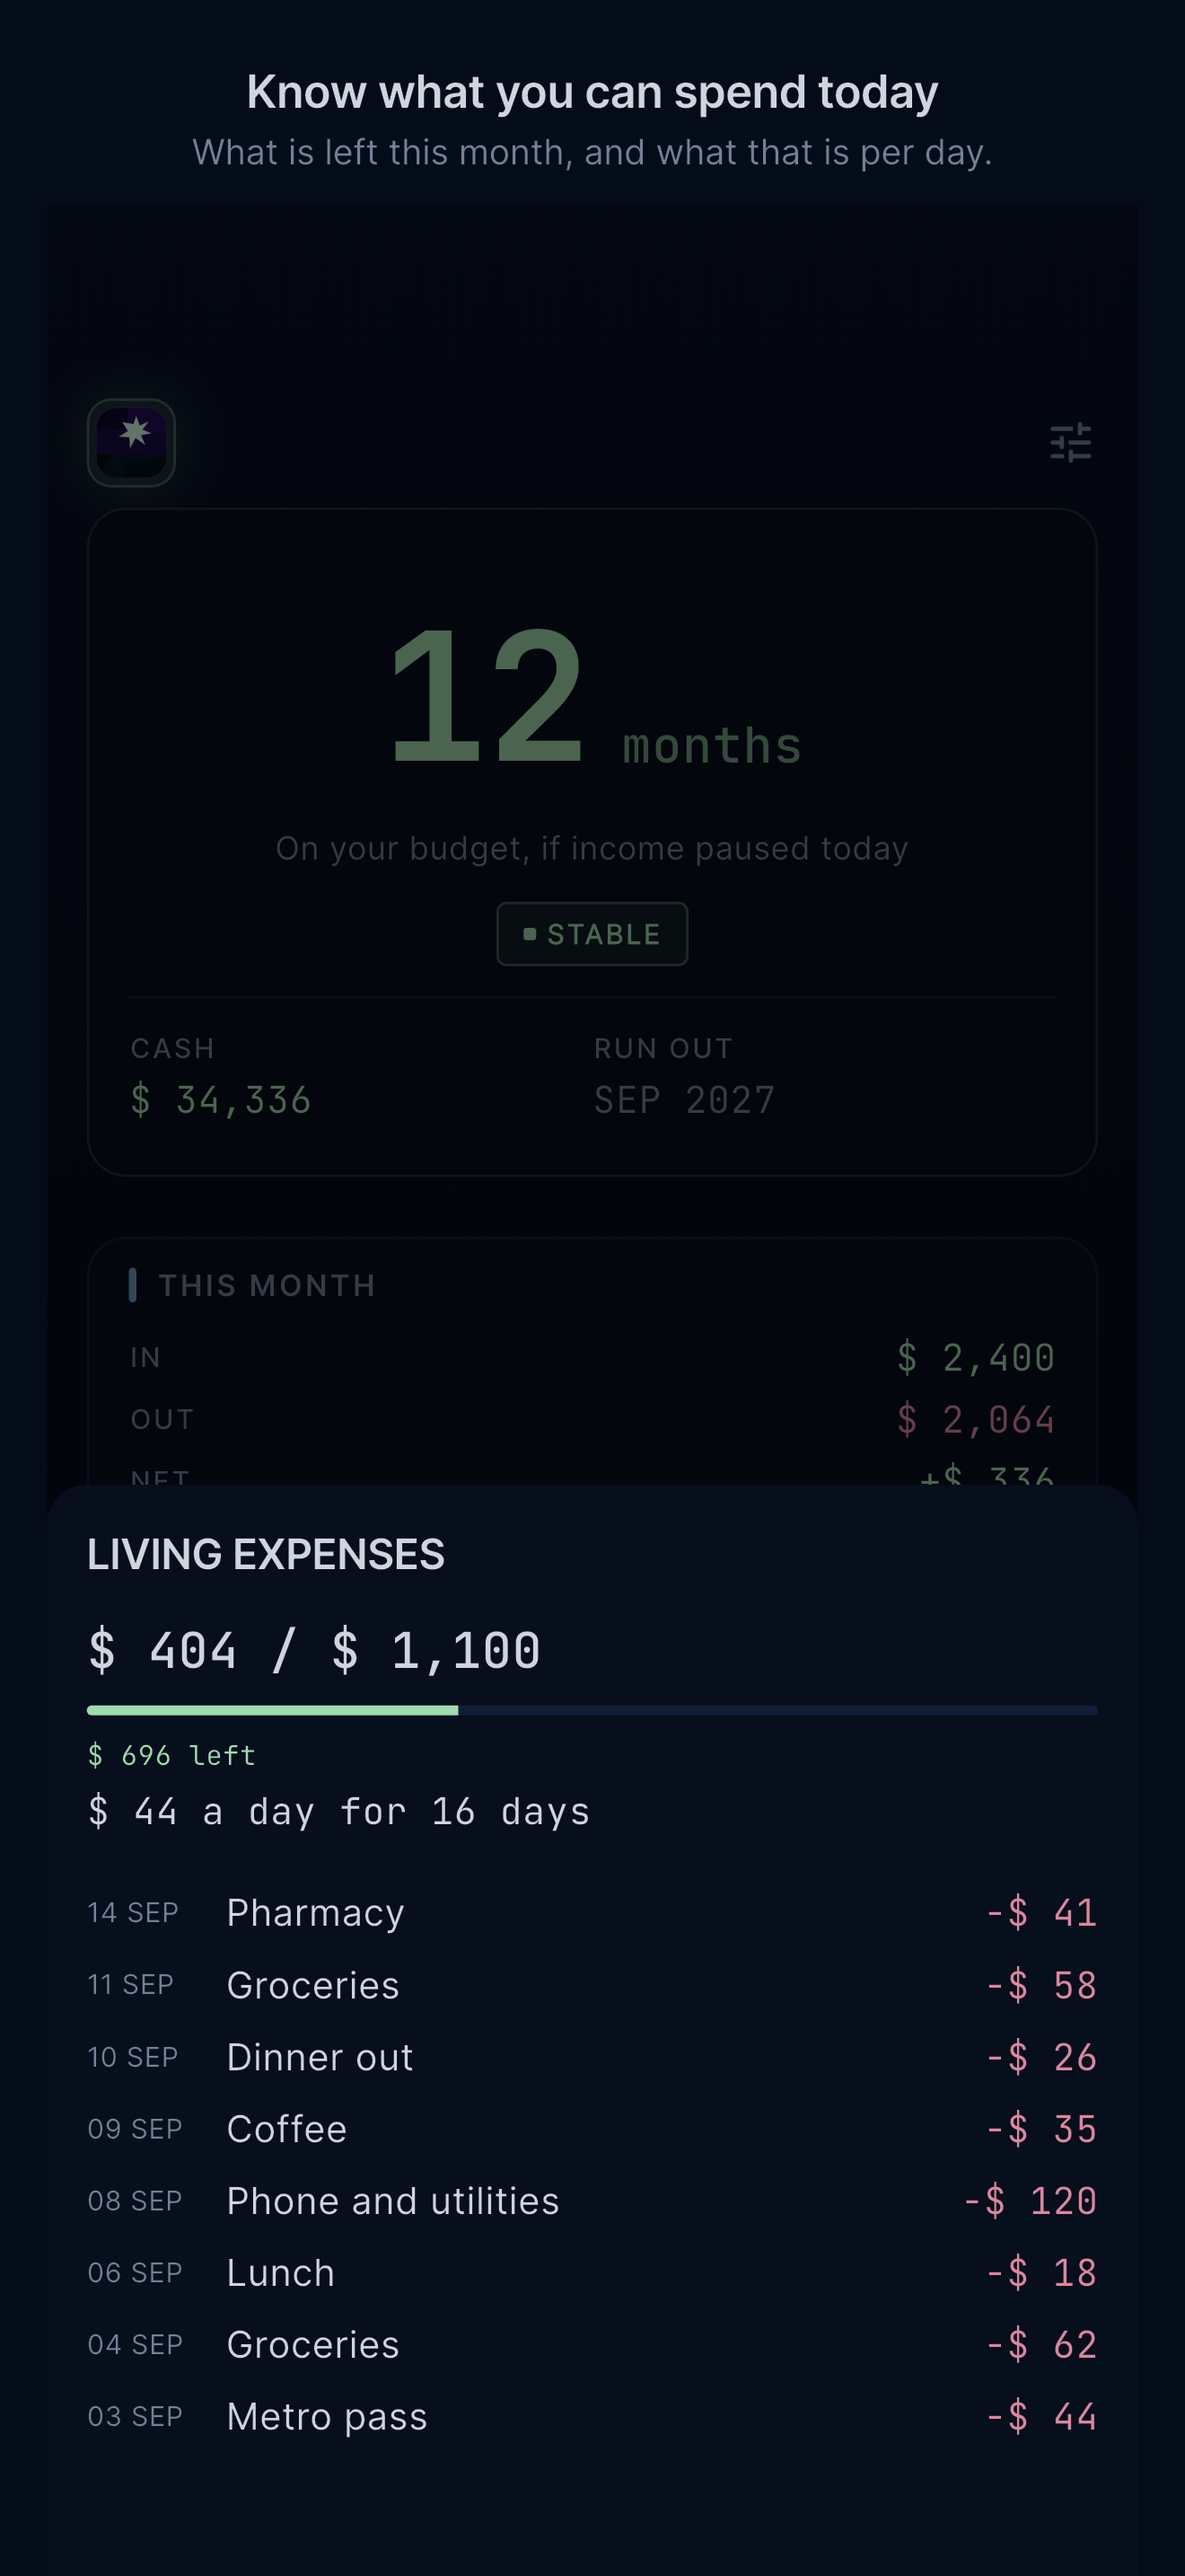
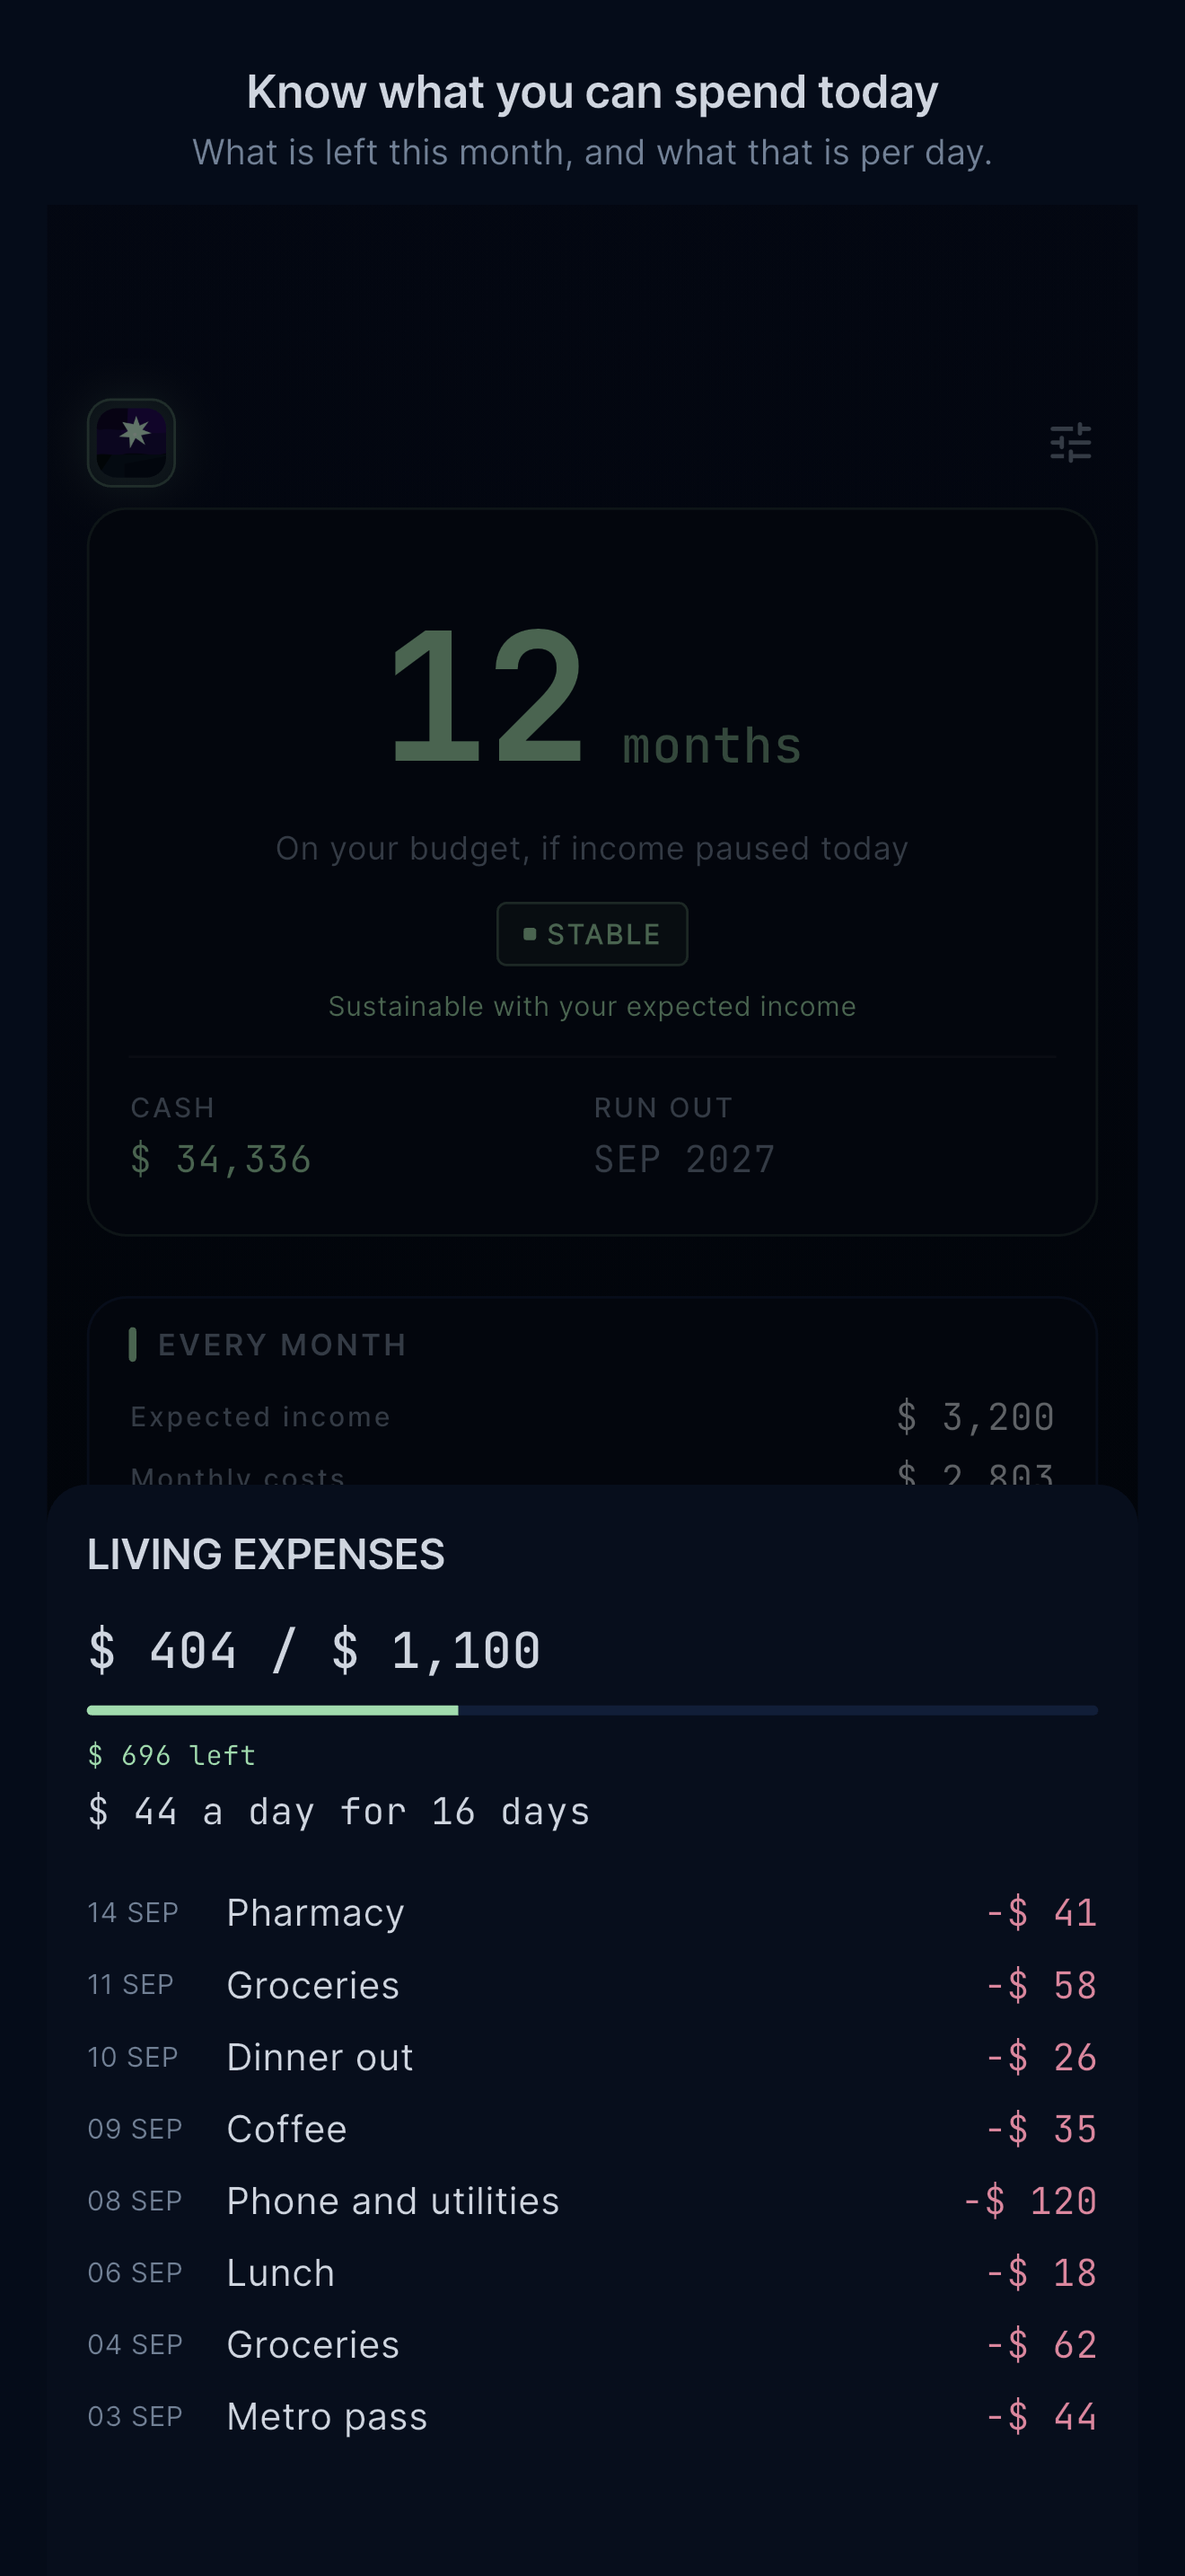
feat(growth): the dashboard shows what a month adds or spends (#193)
Closes #64.

The product is money management and growing income, and the income side had no
surface. The figure existed all along — expected income minus monthly costs,
computed on the model — but it showed only as one caption under the status
badge, and only once the forecast sheet had been filled in. So the app said a
great deal about money leaving and nothing about money arriving.

A card between the goal and this month, because that is where the pair reads:
what you expect every month, then what actually happened in this one. Expected
income, monthly costs, and what the month leaves. Green when it leaves
something, the cost colour when it does not, and the word is Surplus or
Deficit with no adjective either side of it.

With no expected income set it says one thing, which is the way to set it, and
opens the same sheet the settings screen uses. An empty card that explains
what it would show if you filled it in is worse than a card that asks.

It does not touch the runway. The runway is deliberately what the cash covers
if income stopped today, per CONTRACTS.md §3.2, and a test asserts that adding
expected income leaves the months unchanged. This card answers the other
question: on current expectations, does the month add to that or spend it.

The demo seed now carries an expected income, so the store frames show the
growth half rather than an empty state asking for it. Recaptured, and all four
frames matched across two runs this time.
[…]

diff --git a/packages/presentation/lib/features/dashboard/widgets/every_month_card.dart b/packages/presentation/lib/features/dashboard/widgets/every_month_card.dart
@@ -1,0 +1,133 @@
+import 'package:application/application.dart';
+import 'package:design_system/design_system.dart';
+import 'package:domain/domain.dart';
+import 'package:flutter/material.dart';
+import 'package:flutter_riverpod/flutter_riverpod.dart';
+import 'package:intl/intl.dart';
+
+/// Expected income against monthly costs, and what the month leaves behind.
+///
+/// This is the growth half of the product, and until now it had no surface.
+/// The figure existed — the model has computed it all along — but it showed
+/// only as one caption under the status badge, and only once the forecast
+/// sheet had been filled in. So the app said plenty about what money leaves
+/// and nothing about what comes in.
+///
+/// It does not touch the runway. The runway is deliberately what the cash
+/// covers if income stopped today (CONTRACTS.md §3.2); this says whether, on
+/// current expectations, the month adds to that or spends it.
+class EveryMonthCard extends ConsumerWidget {
+  const EveryMonthCard({super.key, required this.model, required this.onSetUp});
+
+  final ModelState model;
+
+  /// Opens the place the figure is edited. There is one way in, and it is the
+  /// same one the settings sheet uses.
+  final VoidCallback onSetUp;
+
+  @override
+  Widget build(BuildContext context, WidgetRef ref) {
+    final l10n = context.l10n;
+    final symbol = ref.watch(currencyProvider).value?.symbol ?? '¥';
+    final nf = NumberFormat('#,##0', 'en_US');
+    String money(double v) => '$symbol ${nf.format(v.abs())}';
+
+    // Nothing to say about an income nobody has told us about, beyond the one
+    // way to say it.
+    if (!model.hasSustainableProjection) {
+      return NeoExpandableCard(
+        title: l10n.everyMonth,
+        accentColor: SC.accentNeutral,
+        summary: GestureDetector(
+          onTap: onSetUp,
+          behavior: HitTestBehavior.opaque,
+          child: Row(
+            mainAxisAlignment: MainAxisAlignment.spaceBetween,
+            children: [
+              Flexible(
+                child: Text(
+                  l10n.setExpectedIncome,
+                  style: AppTextStyles.body.copyWith(color: SC.numberPrimary),
+                  maxLines: 1,
+                  overflow: TextOverflow.ellipsis,
+                ),
+              ),
+              const SizedBox(width: AppSpacing.sm),
+              const Icon(
+                Icons.chevron_right_rounded,
+                size: 18,
+                color: SC.captionColor,
+              ),
+            ],
+          ),
+        ),
+      );
+    }
+
+    final net = model.sustainableNetMonthlyFlow;
+    final inSurplus = net >= 0;
+
+    return NeoExpandableCard(
+      title: l10n.everyMonth,
+      accentColor: inSurplus ? SC.accentLife : SC.accentCost,
+      summary: Column(
+        children: [
+          _Row(
+            label: l10n.expectedInflow,
+            value: money(model.expectedMonthlyInflow ?? 0),
+            color: SC.numberPrimary,
+          ),
+          const SizedBox(height: AppSpacing.xs),
+          _Row(
+            label: l10n.pressureLabel,
+            value: money(model.totalMonthlyOutflow),
+            color: SC.numberPrimary,
+          ),
+          const SizedBox(height: AppSpacing.xs),
+          _Row(
+            label: inSurplus ? l10n.monthlySurplus : l10n.monthlyDeficit,
+            value: '${inSurplus ? '+' : '-'}${money(net)}',
+            color: inSurplus ? SC.numberLife : SC.numberCost,
+          ),
+        ],
+      ),
+    );
+  }
+}
+
+class _Row extends StatelessWidget {
+  const _Row({required this.label, required this.value, required this.color});
+
+  final String label;
+  final String value;
+  final Color color;
+
+  @override
+  Widget build(BuildContext context) {
+    // Both sides yield: the label can be long once translated and the value
+    // can be twelve digits.
+    return Row(
+      mainAxisAlignment: MainAxisAlignment.spaceBetween,
+      children: [
+        Flexible(
+          child: Text(
+            label,
+            style: AppTextStyles.label,
+            maxLines: 1,
+            overflow: TextOverflow.ellipsis,
+          ),
+        ),
+        const SizedBox(width: AppSpacing.sm),
+        Flexible(
+          child: Text(
+            value,
+            style: AppTextStyles.metricSmall.copyWith(color: color),
+            textAlign: TextAlign.right,
+            maxLines: 1,
+            overflow: TextOverflow.ellipsis,
+          ),
+        ),
+      ],
+    );
+  }
+}

diff --git a/packages/presentation/test/features/dashboard/every_month_card_test.dart b/packages/presentation/test/features/dashboard/every_month_card_test.dart
@@ -1,0 +1,95 @@
+import 'package:design_system/design_system.dart';
+import 'package:domain/domain.dart';
+import 'package:flutter/material.dart';
+import 'package:flutter_riverpod/flutter_riverpod.dart';
+import 'package:flutter_test/flutter_test.dart';
+import 'package:presentation/features/dashboard/widgets/every_month_card.dart';
+
+/// The growth half of the product had no surface. The figure existed and
+/// showed only as one caption under the status badge, once the forecast sheet
+/// had been filled in, so the app said plenty about money leaving and nothing
+/// about money arriving.
+ModelState _model({double? expectedInflow}) => ModelState(
+  currentCash: 34000,
+  burnRate: 2800,
+  effectiveBurnRate: 2800,
+  monthlyPayment: 0,
+  subscriptionMonthlyCost: 0,
+  expectedMonthlyInflow: expectedInflow,
+  runwayMonths: 12,
+  runwayDays: 365,
+);
+
+Future<void> _pump(
+  WidgetTester tester,
+  ModelState model, {
+  VoidCallback? onSetUp,
+}) async {
+  await tester.pumpWidget(
+    ProviderScope(
+      child: MaterialApp(
+        localizationsDelegates: AppLocalizations.localizationsDelegates,
+        supportedLocales: AppLocalizations.supportedLocales,
+        home: Scaffold(
+          body: SingleChildScrollView(
+            child: EveryMonthCard(model: model, onSetUp: onSetUp ?? () {}),
+          ),
+        ),
+      ),
+    ),
+  );
+  await tester.pumpAndSettle();
+}
+
+void main() {
+  testWidgets('with income set it states both sides and what is left', (
+    tester,
+  ) async {
+    await _pump(tester, _model(expectedInflow: 4200));
+
+    expect(find.text('Expected income'), findsOneWidget);
+    expect(find.text('Monthly costs'), findsOneWidget);
+    expect(find.text('Surplus'), findsOneWidget);
+    expect(find.textContaining('4,200'), findsOneWidget);
+    expect(find.textContaining('2,800'), findsOneWidget);
+    expect(find.textContaining('1,400'), findsOneWidget);
+  });
+
+  testWidgets('income below costs reads as a deficit, without alarm', (
+    tester,
+  ) async {
+    await _pump(tester, _model(expectedInflow: 1800));
+
+    expect(find.text('Deficit'), findsOneWidget);
+    expect(find.text('Surplus'), findsNothing);
+    expect(find.textContaining('1,000'), findsOneWidget);
+  });
+
+  testWidgets('with no income set it offers one way to set it and no more', (
+    tester,
+  ) async {
+    var opened = 0;
+    await _pump(tester, _model(), onSetUp: () => opened++);
+
+    expect(find.text('Set expected income'), findsOneWidget);
+    expect(find.text('Expected income'), findsNothing);
+    expect(find.text('Surplus'), findsNothing);
+    expect(find.text('Deficit'), findsNothing);
+
+    await tester.tap(find.text('Set expected income'));
+    await tester.pumpAndSettle();
+    expect(opened, 1);
+  });
+
+  test('the runway still ignores expected income', () {
+    // CONTRACTS.md §3.2: the runway is what the cash covers if income stopped
+    // today. This card says whether the month adds to that; it must not
+    // change it.
+    final withIncome = _model(expectedInflow: 4200);
+    final without = _model();
+
+    expect(withIncome.runwayMonths, without.runwayMonths);
+    expect(withIncome.sustainableNetMonthlyFlow, 1400);
+    expect(without.hasSustainableProjection, isFalse);
+  });
+}

diff --git a/packages/presentation/lib/features/dashboard/dashboard_screen.dart b/packages/presentation/lib/features/dashboard/dashboard_screen.dart
@@ -4,6 +4,7 @@ import 'package:design_system/design_system.dart';
 import 'package:application/application.dart';
 import 'package:domain/domain.dart';
 import 'widgets/this_month_card.dart';
+import 'widgets/every_month_card.dart';
 import 'widgets/goal_card.dart';
 import 'widgets/runway_card.dart';
 import 'widgets/getting_started_card.dart';
@@ -74,6 +75,14 @@ class DashboardScreen extends ConsumerWidget {
                   const SubscriptionPromptCard(),
                   GoalCard(model: model),
                   const SizedBox(height: AppSpacing.cardGap),
+                  // The income side, directly above the spending side, so the
+                  // pair reads as what you expect each month and then what
+                  // actually happened this one.
+                  EveryMonthCard(
+                    model: model,
+                    onSetUp: () => _showConfig(context),
+                  ),
+                  const SizedBox(height: AppSpacing.cardGap),
                   const ThisMonthCard(),
                   const SizedBox(height: AppSpacing.cardGap),
                   const LiabilitiesPanel(),
@@ -135,8 +144,8 @@ class _RunwayBadgeState extends ConsumerState<_RunwayBadge>
   late final Animation<double> _glow;
 
   static Duration _durationFor(RunwayStatus s) => switch (s) {
-    RunwayStatus.stable   => const Duration(milliseconds: 2800),
-    RunwayStatus.caution  => const Duration(milliseconds: 1400),
+    RunwayStatus.stable => const Duration(milliseconds: 2800),
+    RunwayStatus.caution => const Duration(milliseconds: 1400),
     RunwayStatus.critical => const Duration(milliseconds: 650),
   };
 
@@ -149,9 +158,10 @@ class _RunwayBadgeState extends ConsumerState<_RunwayBadge>
       vsync: this,
       duration: const Duration(milliseconds: 2800),
     )..repeat(reverse: true);
-    _glow = Tween<double>(begin: 0.10, end: 0.45).animate(
-      CurvedAnimation(parent: _controller, curve: Curves.easeInOut),
-    );
+    _glow = Tween<double>(
+      begin: 0.10,
+      end: 0.45,
+    ).animate(CurvedAnimation(parent: _controller, curve: Curves.easeInOut));
   }
 
   @override

diff --git a/app/integration_test/screenshots_test.dart b/app/integration_test/screenshots_test.dart
@@ -228,6 +228,13 @@ Future<void> _seed(AppDatabase database) async {
   await settings.saveBudget(
     const Budget(rent: _rentBudget, living: _livingBudget),
   );
+
+  // Expected income, so the frames show the growth half of the product rather
+  // than an empty state asking for it. Retainers and a contract, a little
+  // above the monthly cost, which is the position the app is for.
+  await settings.saveFinancialAssumptions(
+    const FinancialAssumptions(expectedMonthlyInflow: 3200),
+  );
 }
 
 Transaction _entry(
